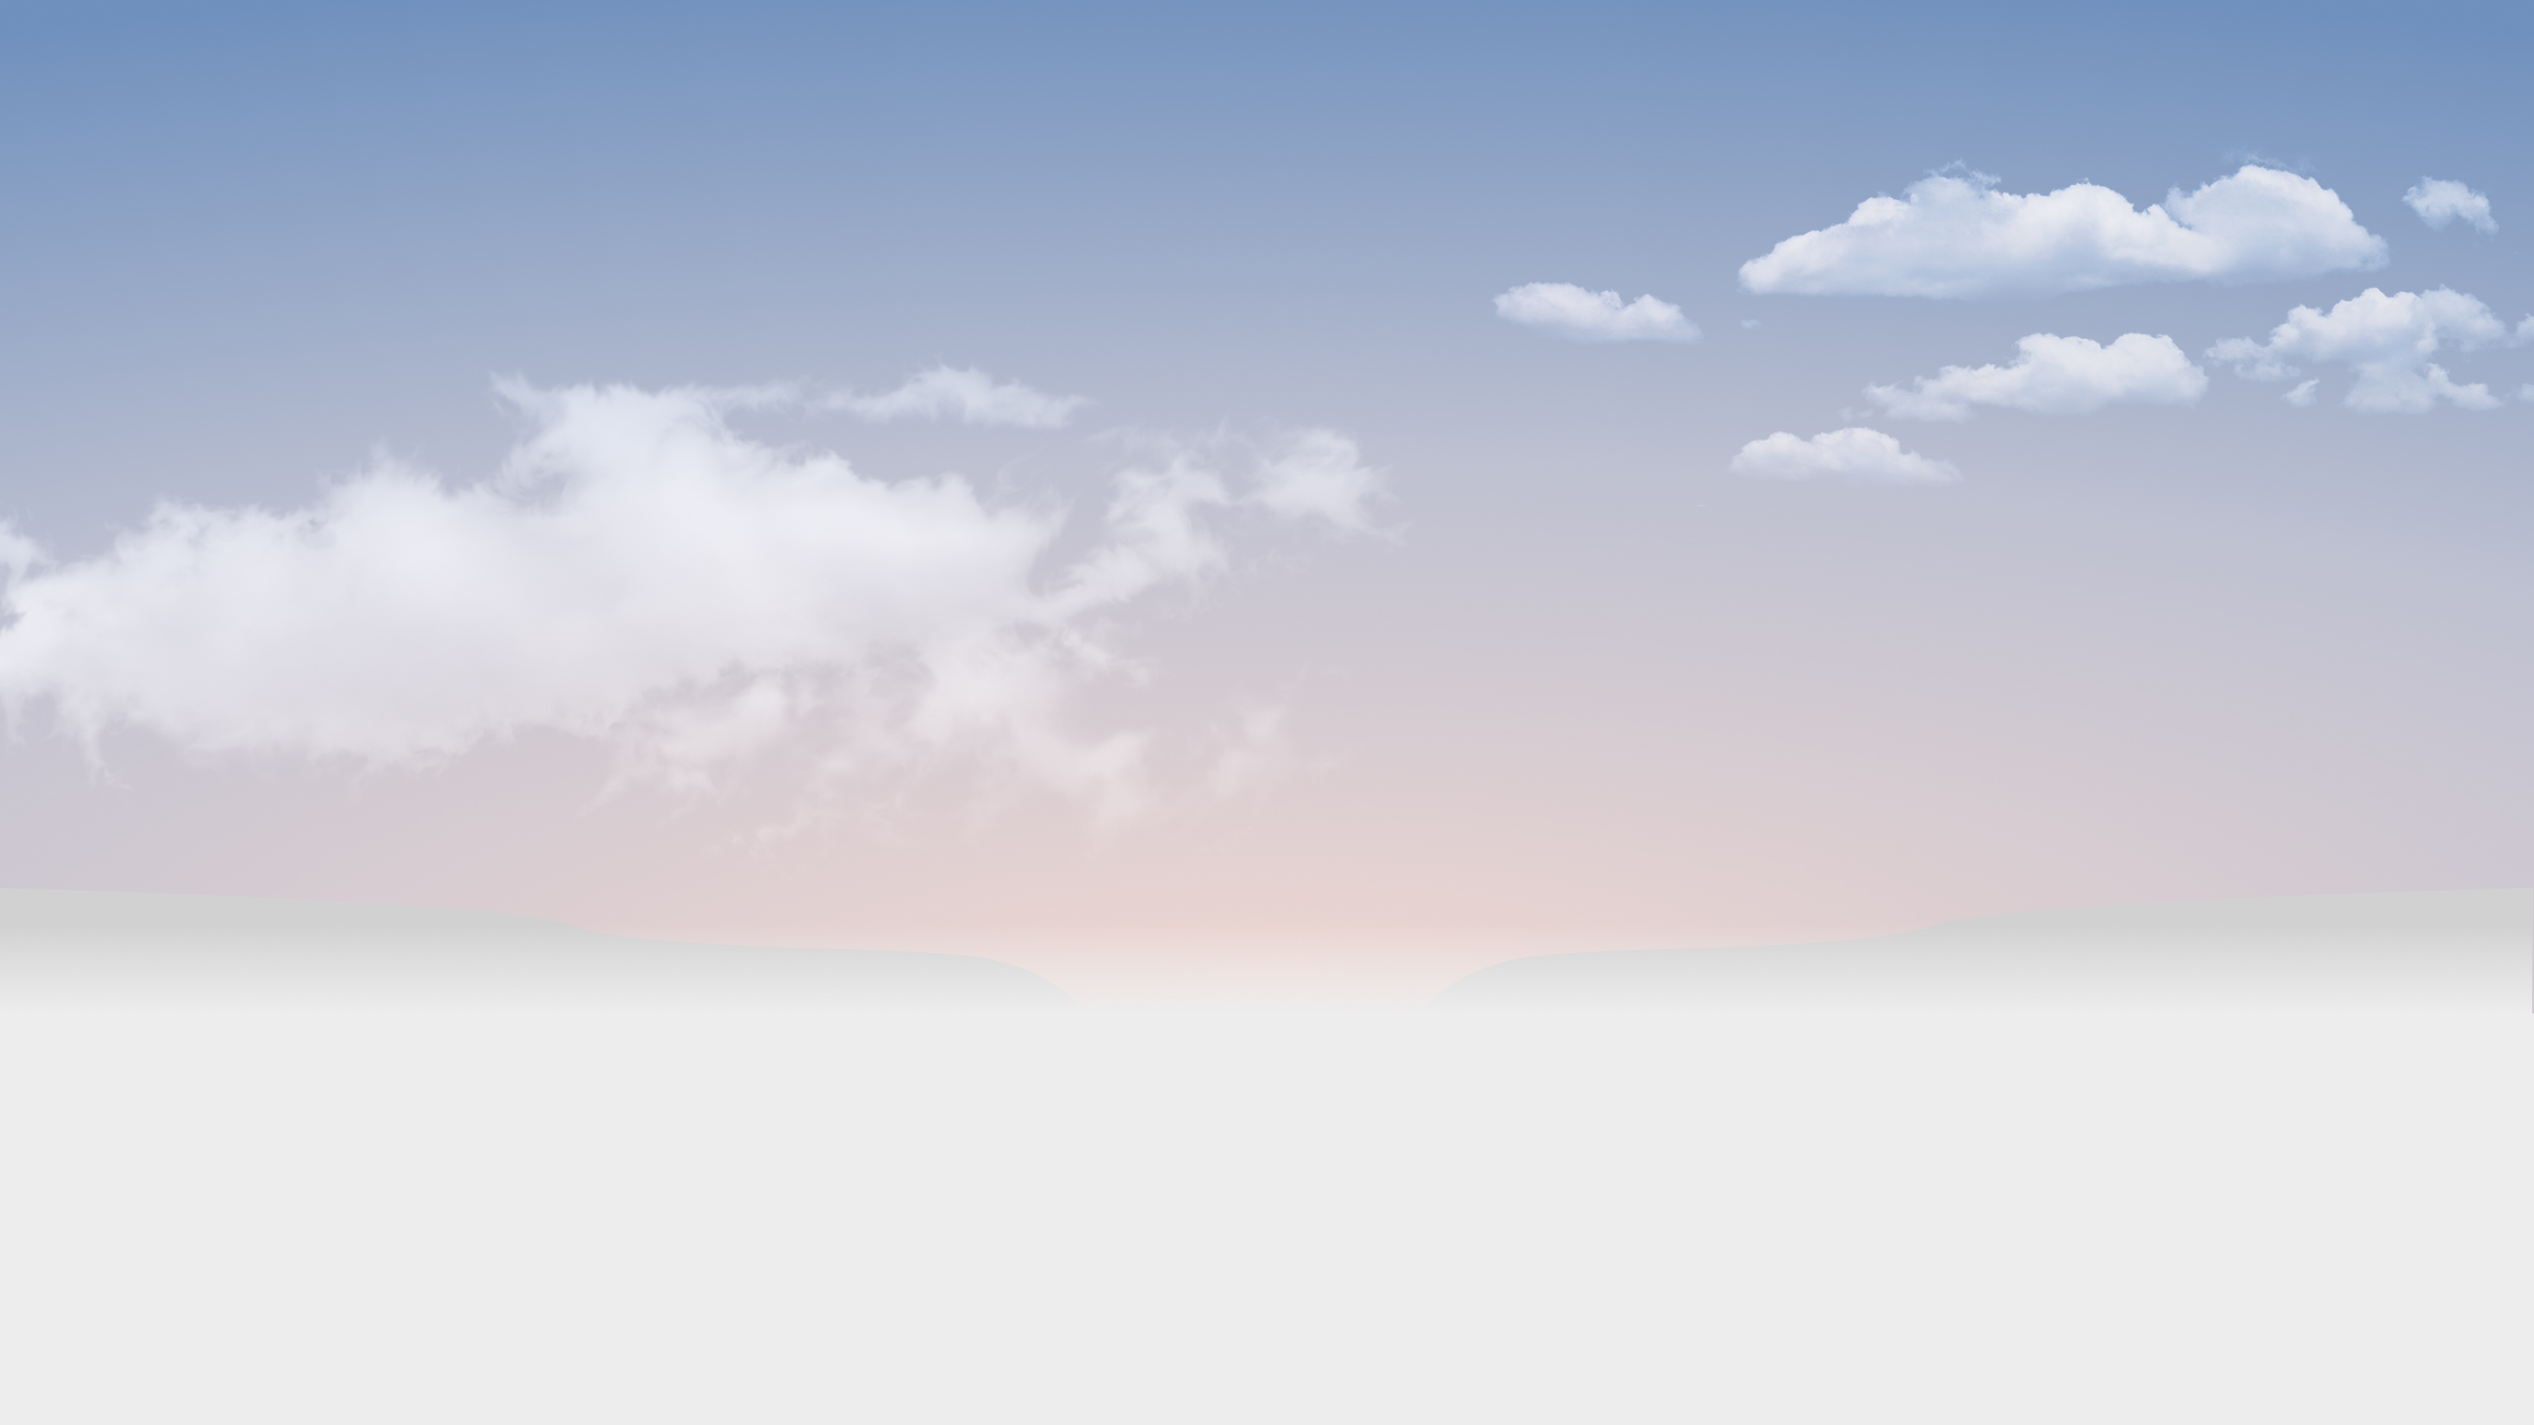
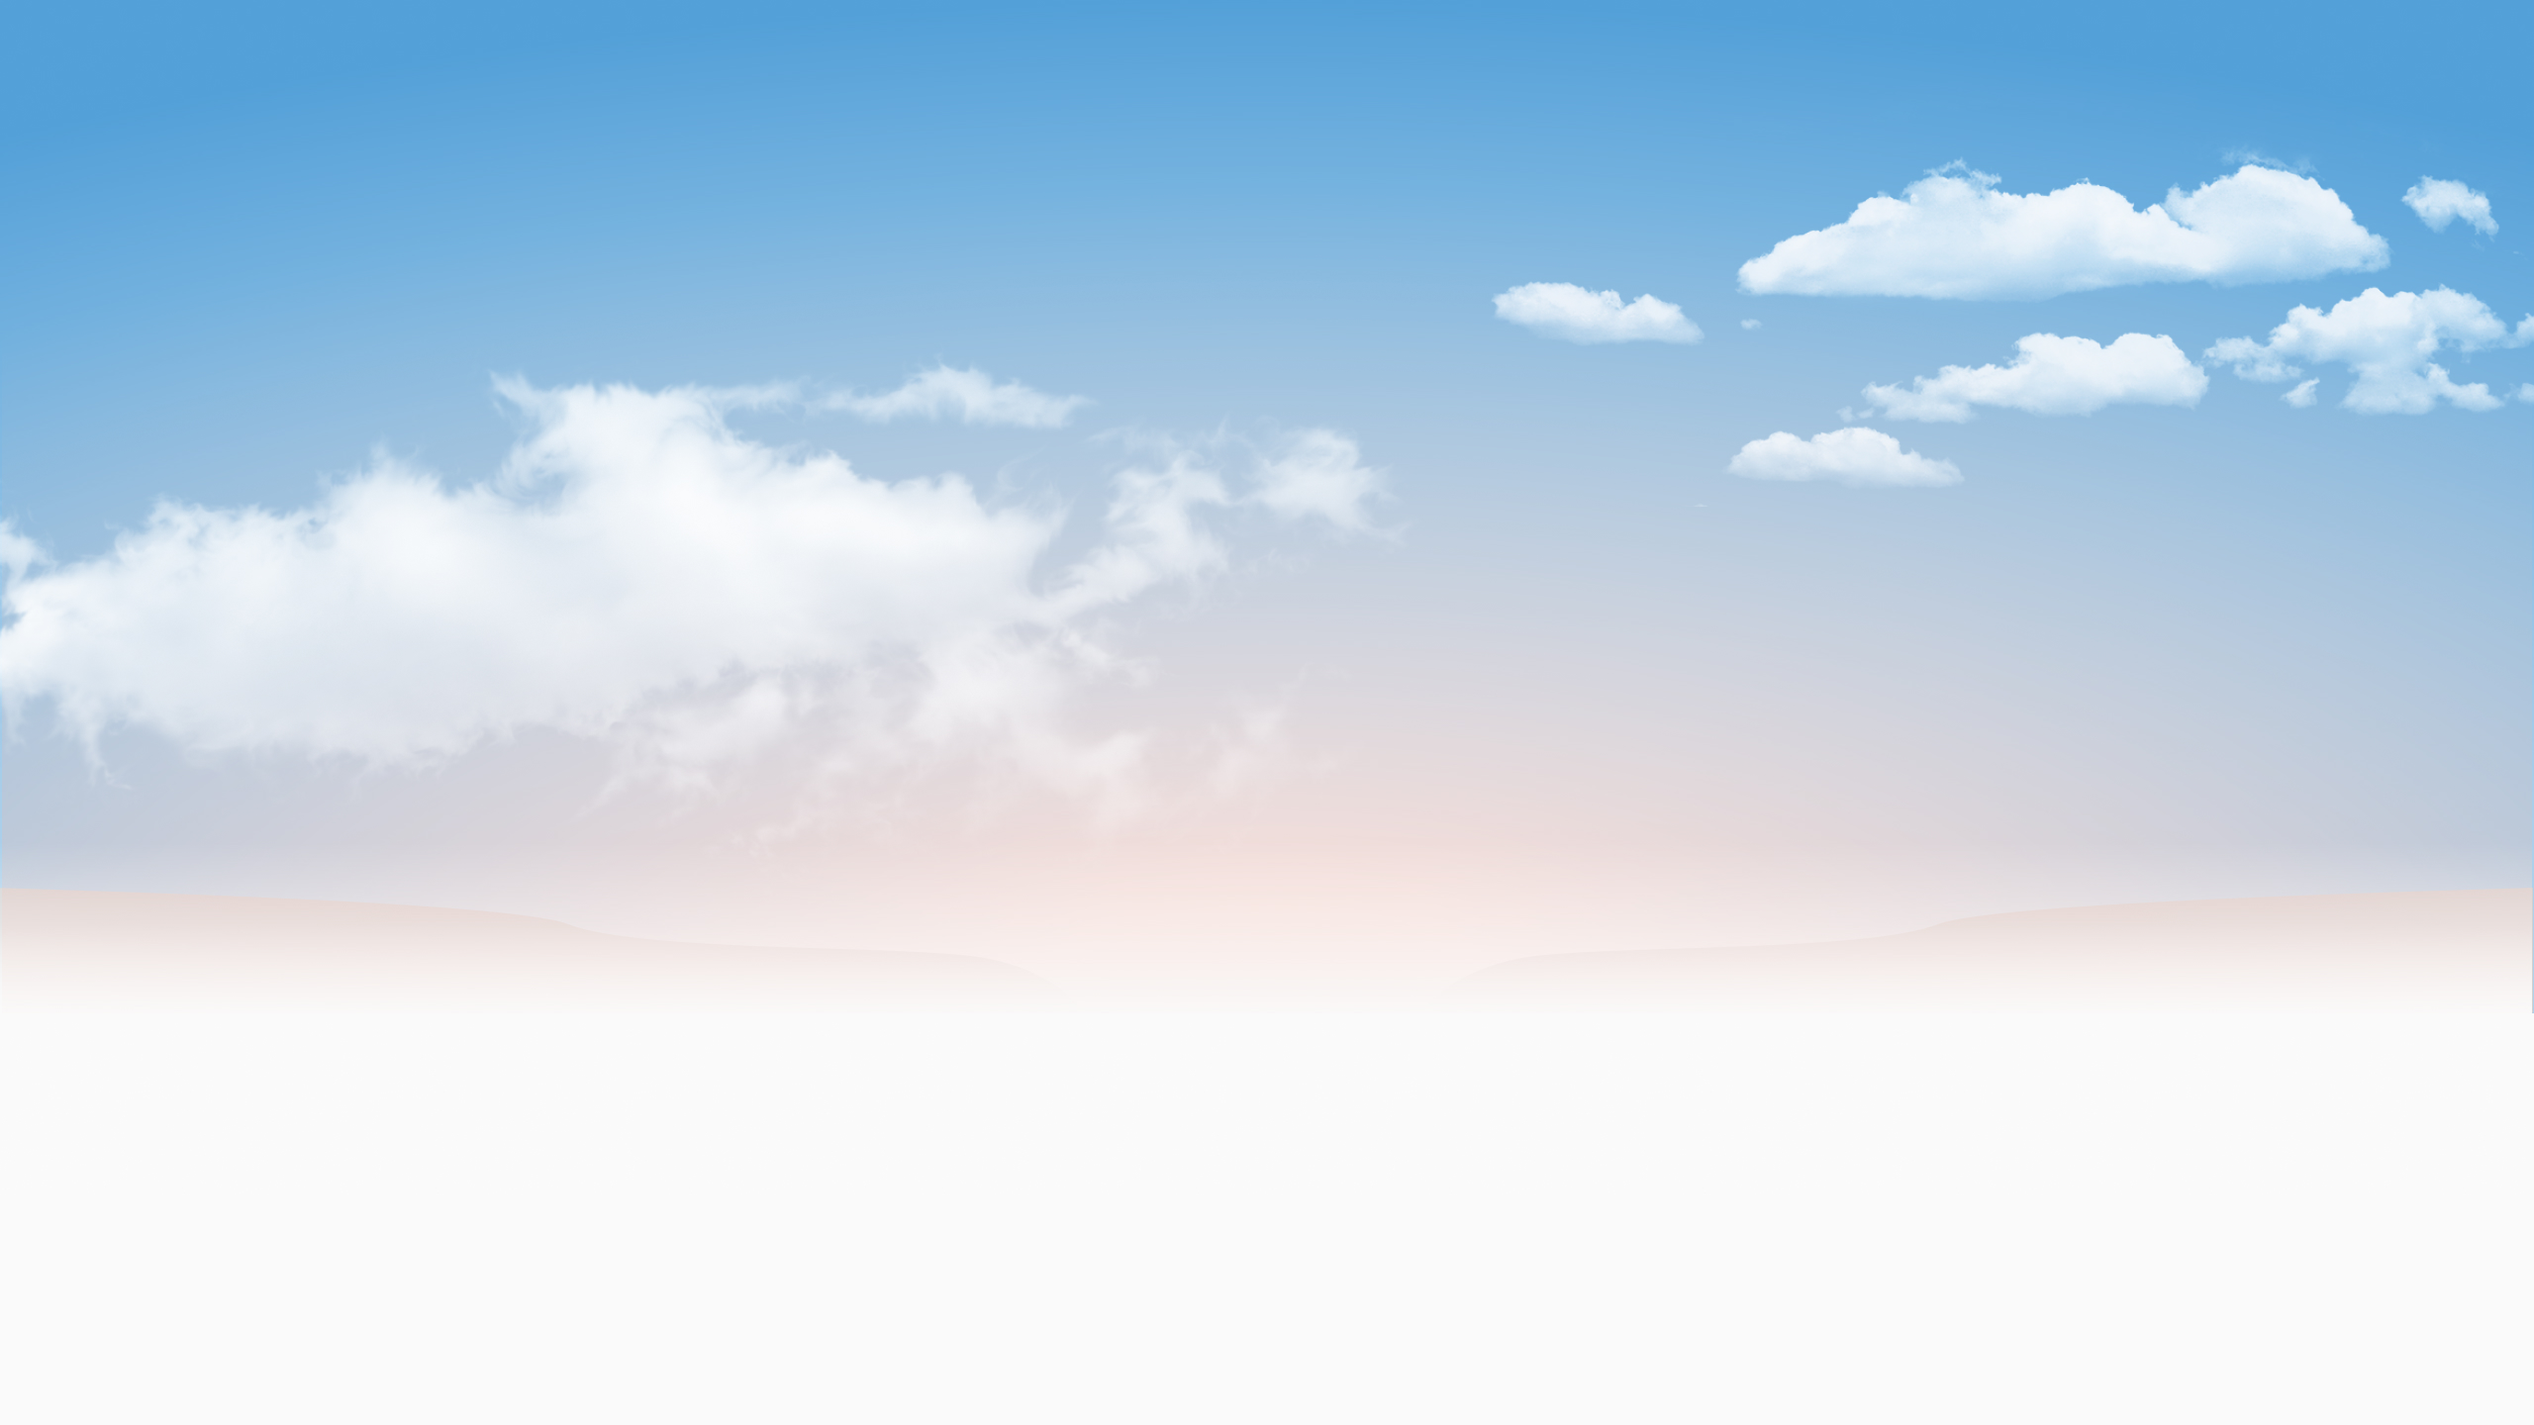
fix: update background and assets

Changed region(s): [[0.0, 0.0, 1.0, 0.4688], [0.7188, 0.625, 0.9375, 0.6875], [0.0625, 0.625, 0.25, 0.6875]]

diff --git a/src/modules/Partners/components/Hero.tsx b/src/modules/Partners/components/Hero.tsx
@@ -1,5 +1,6 @@
 import { HeroWrapper } from './Hero.styled';
 
+import classNames from 'classnames';
 import { PARTNERS_IMAGES } from 'modules/Partners/constants';
 import Image from 'next/image';
 import Link from 'next/link';
@@ -8,32 +9,38 @@ import React from 'react';
 const Hero: React.FC = () => {
   return (
     <HeroWrapper className="relative w-screen">
-      <div className="container flex flex-col items-center h-full px-6 mx-auto pt-36 isolate xl:pt-40">
+      <div className="bg-1"></div>
+      <div className="bg-2"></div>
+      <div className="container isolate mx-auto flex h-full flex-col items-center px-6 pt-36 xl:pt-40">
         <div className="pb-8">
-          <p className="hero-text font-['Gilroy'] font-[400] text-center text-base tracking-[2px] pb-4 text-black-1 max-w-xs md:max-w-md lg:max-w-xl xl:max-w-4xl">
+          <p className="hero-text max-w-xs pb-4 text-center font-['Gilroy'] text-base font-[400] tracking-[2px] text-black-1 md:max-w-md lg:max-w-xl xl:max-w-4xl">
             RENEWME PARTNERSHIPS
           </p>
-          <h1 className="hero-text font-['Gilroy'] font-[600] leading-10 text-center text-3xl pb-4 text-black-1 md:text-4xl lg:text-5xl xl:text-6xl">
+          <h1 className="hero-text pb-4 text-center font-['Gilroy'] text-3xl font-[600] leading-10 text-black-1 md:text-4xl lg:text-5xl xl:text-6xl">
             Brands with Purpose
           </h1>
-          <p className="hero-text font-['Gilroy'] font-[500] text-center text-base text-black-1 max-w-xs md:text-lg md:max-w-md lg:text-xl lg:max-w-xl xl:max-w-3xl">
-            RenewMe select partners are an integral part of our dedication to helping individuals
-            live a healthier, happier, and balanced life. We pride ourselves on special, curated
-            partnerships with brands with purpose who are dedicated to a mission of wellness and
-            life balance for their employees and customers.
+          <p className="hero-text max-w-xs text-center font-['Gilroy'] text-base font-[500] text-black-1 md:max-w-md md:text-lg lg:max-w-xl lg:text-xl xl:max-w-[729px]">
+            RenewMe select partners are dedicated to our global mission of helping individuals live
+            a healthier and happier lives. Together we pride ourselves on special, curated
+            partnerships with popular brands who share our purpose of mental health awareness and a
+            mission of life balance.
           </p>
         </div>
-        <div className="grid hero-buttons">
+        <div className="hero-buttons grid">
           <Link href={'#'}>
-            <a className="font-['Gilroy'] font-[400] text-center text-sm text-white h-10 px-4 bg-orange-1 rounded-lg flex items-center hover:bg-orange-1-hover lg:text-base lg:h-11 xl:text-lg xl:h-14">
+            <a
+              className={classNames(
+                `flex h-10 items-center rounded-lg bg-orange-1 px-4 text-center font-['Gilroy'] text-sm font-[400] text-white hover:bg-orange-1-hover`
+              )}
+            >
               Discover Partnerships
             </a>
           </Link>
         </div>
       </div>
-      <div className="grid mt-20 overflow-x-auto justify-items-center px-[15px]">
+      <div className="mt-20 grid justify-items-center overflow-x-auto px-[15px]">
         <div className="grid grid-flow-col gap-x-[15px]">
-          <div className="hero-image relative h-full max-w-[210px] w-[260px]">
+          <div className="hero-image relative h-full w-[260px] max-w-[210px]">
             <Image
               src={PARTNERS_IMAGES['h-card-1'].url}
               height={PARTNERS_IMAGES['h-card-1'].height}
@@ -42,7 +49,7 @@ const Hero: React.FC = () => {
               priority
             />
           </div>
-          <div className="hero-image relative h-full max-w-[210px] w-[260px]">
+          <div className="hero-image relative h-full w-[260px] max-w-[210px]">
             <Image
               src={PARTNERS_IMAGES['h-card-2'].url}
               height={PARTNERS_IMAGES['h-card-2'].height}
@@ -51,7 +58,7 @@ const Hero: React.FC = () => {
               priority
             />
           </div>
-          <div className="hero-image relative h-full max-w-[210px] w-[260px]">
+          <div className="hero-image relative h-full w-[260px] max-w-[210px]">
             <Image
               src={PARTNERS_IMAGES['h-card-3'].url}
               height={PARTNERS_IMAGES['h-card-3'].height}
@@ -60,7 +67,7 @@ const Hero: React.FC = () => {
               priority
             />
           </div>
-          <div className="hero-image relative h-full max-w-[210px] w-[260px]">
+          <div className="hero-image relative h-full w-[260px] max-w-[210px]">
             <Image
               src={PARTNERS_IMAGES['h-card-4'].url}
               height={PARTNERS_IMAGES['h-card-4'].height}
@@ -69,7 +76,7 @@ const Hero: React.FC = () => {
               priority
             />
           </div>
-          <div className="hero-image relative h-full max-w-[210px] w-[260px]">
+          <div className="hero-image relative h-full w-[260px] max-w-[210px]">
             <Image
               src={PARTNERS_IMAGES['h-card-5'].url}
               height={PARTNERS_IMAGES['h-card-5'].height}

diff --git a/src/modules/Spascape/components/EscapeTranquility.tsx b/src/modules/Spascape/components/EscapeTranquility.tsx
@@ -3,7 +3,7 @@ import { EscapeTranquilityWrapper } from './EscapeTranquility.styled';
 import { SPASCAPE_IMAGES } from '../constants';
 
 import classNames from 'classnames';
-import Image from 'next/image';
+import ImageFuture from 'next/future/image';
 import Link from 'next/link';
 import React from 'react';
 import ExpediaSvg from 'shared/assets/svg/Spascape/expedia.svg';
@@ -16,20 +16,18 @@ const EscapeTranquility: React.FC = () => {
   return (
     <EscapeTranquilityWrapper
       className={classNames(
-        `relative flex min-h-[812px] flex-col items-center justify-center overflow-hidden`,
+        `relative flex min-h-[900px] flex-col items-center justify-center overflow-hidden bg-[#EFE7E0]`,
         `lg:h-[900px]`
       )}
     >
-      <div className="absolute top-[50%] left-[50%] h-full max-h-[1000px] min-h-[600px] w-full min-w-[600px] max-w-[1000px] translate-x-[-50%] translate-y-[-50%] ">
-        <Image
-          src={SPASCAPE_IMAGES['es-bg'].url}
-          alt={SPASCAPE_IMAGES['es-bg'].alt}
-          layout="fill"
-          objectFit="cover"
-          objectPosition="center"
-          priority
-        />
-      </div>
+      <ImageFuture
+        className={classNames(`absolute top-0 h-full w-full object-cover object-right-bottom`)}
+        src={SPASCAPE_IMAGES['es-bg'].url}
+        height={SPASCAPE_IMAGES['es-bg'].height}
+        width={SPASCAPE_IMAGES['es-bg'].width}
+        alt={SPASCAPE_IMAGES['es-bg'].alt}
+        priority
+      />
       <h1 className="isolate pb-4 text-center font-['Gilroy'] text-[32px] font-[600] md:text-5xl lg:text-6xl">
         Escape to Tranquility
       </h1>

diff --git a/src/modules/Partners/components/Hero.styled.ts b/src/modules/Partners/components/Hero.styled.ts
@@ -1,12 +1,31 @@
 import { styled } from 'shared/theme';
 
 export const HeroWrapper = styled.div`
-  .bg-bot {
+  .bg-1 {
     position: absolute;
-    bottom: 0;
-    height: 267px;
-    width: 100%;
-    background: linear-gradient(180deg, rgba(242, 242, 242, 0) 13.19%, #ededed 89.62%);
+    width: 577.4px;
+    height: 577.4px;
+    left: calc(50% - 150px);
+    top: 10%;
+    transform: translateX(-50%);
+    background: radial-gradient(
+      50% 50% at 50% 50%,
+      rgba(0, 192, 197, 0.25) 0%,
+      rgba(243, 243, 243, 0) 80.42%
+    );
+  }
+  .bg-2 {
+    position: absolute;
+    width: 577.4px;
+    height: 577.4px;
+    left: calc(50% + 150px);
+    top: 10%;
+    transform: translateX(-50%);
+    background: radial-gradient(
+      50% 50% at 50% 50%,
+      rgba(240, 126, 89, 0.25) 0%,
+      rgba(243, 243, 243, 0) 80.42%
+    );
   }
   .hero-image {
     animation: heroImageAnim 800ms linear;
@@ -52,10 +71,6 @@ export const HeroWrapper = styled.div`
   ${({ theme }) => theme.screens.largeMedia} {
   }
   ${({ theme }) => theme.screens.xLargeMedia} {
-    .bg {
-      height: 1000px;
-      width: 1000px;
-    }
   }
   ${({ theme }) => theme.screens.xxLargeMedia} {
   }

diff --git a/src/shared/components/Partials/Navbar.tsx b/src/shared/components/Partials/Navbar.tsx
@@ -6,6 +6,7 @@ import { useRouter } from 'next/router';
 import React, { useMemo, useState } from 'react';
 import { useEffectOnce, useWindowSize } from 'react-use';
 import CloseSvg from 'shared/assets/svg/close.svg';
+import LogoDarkSvg from 'shared/assets/svg/logo-dark.svg';
 import LogoSvg from 'shared/assets/svg/logo.svg';
 import { ROUTES } from 'shared/constants/Routes';
 import { useThemeStore } from 'shared/store/Theme';
@@ -82,7 +83,7 @@ const Navbar: React.FC<Props> = ({ hide, isTop = true }) => {
   const renderLogo = useMemo(() => {
     const logoClass = classNames(`w-auto h-full`, !isDesktop && show && 'hidden');
 
-    // if (theme !== Themes.Light || !isTop) return <LogoDarkSvg className={logoClass} />;
+    if (theme !== Themes.Light || !isTop) return <LogoDarkSvg className={logoClass} />;
     return <LogoSvg className={logoClass} />;
   }, [theme, isDesktop, show, isTop]);
 

diff --git a/src/modules/Spascape/constants.ts b/src/modules/Spascape/constants.ts
@@ -4,7 +4,7 @@ export const SPASCAPE_IMAGES = {
   'h-bg': {
     url: `${imageDomainUrl}/Spascape/h-bg.jpg?v=${assetVersion}`,
     width: 2560,
-    height: 1498,
+    height: 1440,
     alt: 'image',
   },
   'h-phone-1': {
@@ -20,9 +20,9 @@ export const SPASCAPE_IMAGES = {
     alt: 'image',
   },
   'es-bg': {
-    url: `${imageDomainUrl}/Spascape/es-bg.webp?v=${assetVersion}`,
-    width: 2882,
-    height: 1800,
+    url: `${imageDomainUrl}/Spascape/es-bg.jpg?v=${assetVersion}`,
+    width: 2560,
+    height: 900,
     alt: 'image',
   },
 };

diff --git a/src/modules/Spascape/components/Hero.styled.ts b/src/modules/Spascape/components/Hero.styled.ts
@@ -6,7 +6,7 @@ export const HeroWrapper = styled.div`
     bottom: 0;
     height: 267px;
     width: 100%;
-    background: linear-gradient(180deg, rgba(242, 242, 242, 0) 13.19%, #ededed 89.62%);
+    background: linear-gradient(180deg, rgba(239, 231, 224, 0) 13.19%, #efe7e0 89.62%);
   }
   .hero-image {
     animation: heroImageAnim 800ms linear;

diff --git a/src/modules/Home/constants.ts b/src/modules/Home/constants.ts
@@ -3,8 +3,8 @@ import { assetVersion, imageDomainUrl } from 'shared/constants/Assets';
 export const HOME_IMAGES = {
   'h-bg': {
     url: `${imageDomainUrl}/Home/h-bg.jpg?v=${assetVersion}`,
-    width: 1440,
-    height: 900,
+    width: 2560,
+    height: 1440,
     alt: 'image',
   },
   'h-phone-1': {

diff --git a/src/modules/Spascape/index.tsx b/src/modules/Spascape/index.tsx
@@ -8,7 +8,7 @@ import React from 'react';
 
 const Spascape: React.FC = () => {
   return (
-    <SpascapeWrapper className="flex flex-col overflow-hidden bg-gray-2">
+    <SpascapeWrapper className="flex flex-col overflow-hidden bg-[#EFE7E0]">
       <Hero />
       <Network />
       <EscapeTranquility />

diff --git a/src/modules/Partners/index.tsx b/src/modules/Partners/index.tsx
@@ -7,7 +7,7 @@ import React from 'react';
 
 const Partners: React.FC = () => {
   return (
-    <PartnersWrapper className="flex flex-col bg-gray-2">
+    <PartnersWrapper className="flex flex-col overflow-x-hidden bg-white">
       <Hero />
       <Wellness />
       <WhatPeopleAreSaying />

diff --git a/src/modules/Spascape/components/Network.styled.ts b/src/modules/Spascape/components/Network.styled.ts
@@ -1,5 +1,3 @@
 import { styled } from 'shared/theme';
 
-export const NetworkWrapper = styled.div`
-  background: linear-gradient(180deg, rgba(242, 242, 242, 0) 13.19%, #ededed 89.62%);
-`;
+export const NetworkWrapper = styled.div``;

diff --git a/src/modules/Partners/components/WhatPeopleAreSaying.styled.ts b/src/modules/Partners/components/WhatPeopleAreSaying.styled.ts
@@ -9,7 +9,7 @@ export const WhatPeopleAreSayingWrapper = styled.div`
     background: radial-gradient(
       111.91% 157.37% at 50% 157.37%,
       rgba(255, 255, 255, 0) 0%,
-      #eaeaea 78.06%
+      #eaeaea 100%
     );
   }
 `;

diff --git a/src/modules/Spascape/components/WhatPeopleAreSaying.styled.ts b/src/modules/Spascape/components/WhatPeopleAreSaying.styled.ts
@@ -9,7 +9,7 @@ export const WhatPeopleAreSayingWrapper = styled.div`
     background: radial-gradient(
       111.91% 157.37% at 50% 157.37%,
       rgba(255, 255, 255, 0) 0%,
-      #eaeaea 78.06%
+      #eaeaea 100%
     );
   }
 `;
